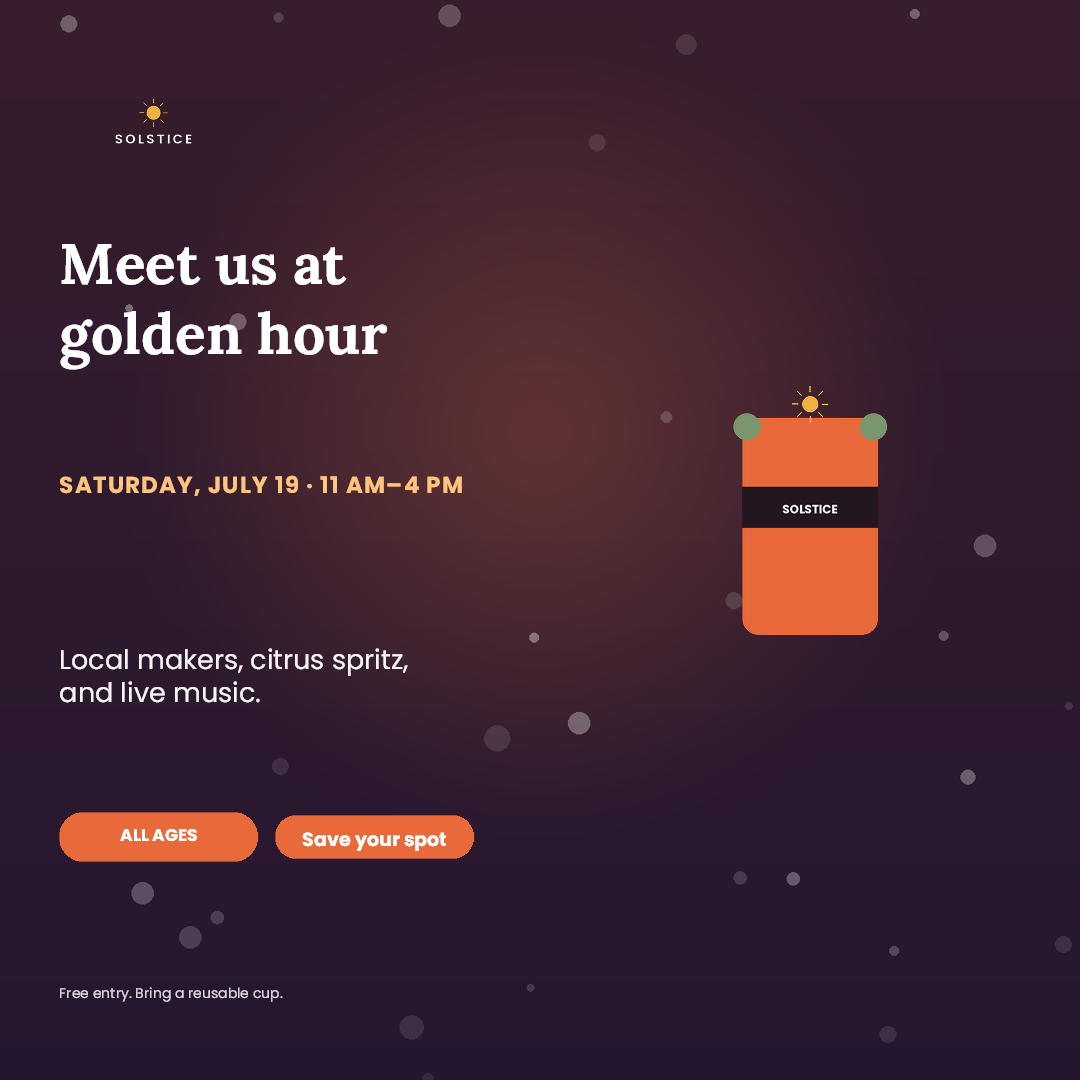
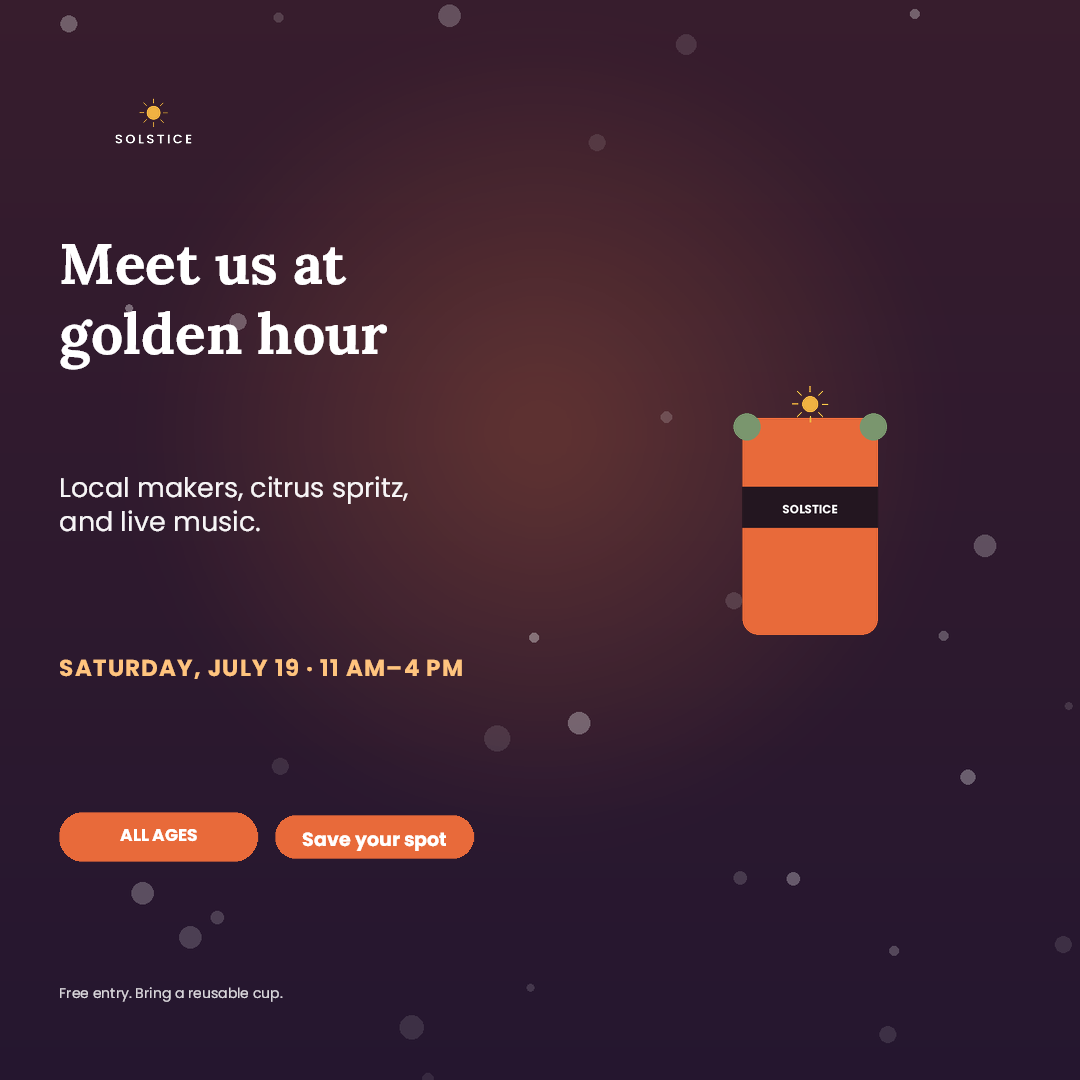
Keep event date hierarchy in mobile layouts

Changed region(s): [[0.0611, 0.5806, 0.4278, 0.6722], [0.0611, 0.4278, 0.4278, 0.4889]]

diff --git a/engine/chameleon/planner.py b/engine/chameleon/planner.py
@@ -228,7 +228,7 @@ def _wide_banner(dna: DesignDNA, output: dict[str, Any], by_id: dict[str, dict[s
     logos = roles("logo")
     heroes = sorted(roles("hero_image", "supporting_image"), key=lambda fact: -fact.importance)
     headlines = sorted(roles("headline"), key=lambda fact: -float(fact.element.get("font_size", 1)))
-    narrative = sorted(roles("subheadline", "body_copy"), key=lambda fact: (fact.center[1], fact.center[0]))
+    narrative = sorted(roles("subheadline", "event_metadata", "body_copy"), key=lambda fact: (fact.center[1], fact.center[0]))
     legal = roles("legal")
     cta_groups = _group_ids(dna, "cta")
     badge_groups = _group_ids(dna, "badge")
@@ -316,6 +316,7 @@ def _layout(dna: DesignDNA, family: str, variant: int = 0) -> dict[str, Any]:
     heroes = [f for f in facts if f.role in {"hero_image", "supporting_image"}]
     heads = [f for f in facts if f.role == "headline"]
     subs = [f for f in facts if f.role == "subheadline"]
+    metadata = [f for f in facts if f.role == "event_metadata"]
     bodies = [f for f in facts if f.role == "body_copy"]
     legals = [f for f in facts if f.role == "legal"]
     standalone_ctas = [f for f in facts if f.role == "cta_text" and f.group_id is None]
@@ -421,7 +422,7 @@ def _layout(dna: DesignDNA, family: str, variant: int = 0) -> dict[str, Any]:
             0.0 if compact_wide_copy else 0.14 if not compact else 0.07
         )
         ordered_heads = sorted(heads, key=lambda a: -float(a.element.get("font_size", 1)))
-        ordered_support = sorted(subs + bodies, key=lambda a: (a.center[1], a.center[0]))
+        ordered_support = sorted(subs + metadata + bodies, key=lambda a: (a.center[1], a.center[0]))
         many_narrative = compact and len(ordered_heads) + len(ordered_support) > 2
         if len(ordered_heads) + len(ordered_support) > 2:
             narrative = ordered_heads + ordered_support
@@ -510,8 +511,15 @@ def _layout(dna: DesignDNA, family: str, variant: int = 0) -> dict[str, Any]:
             h = ch * 0.20
             _apply_rect(dna, by_id, f.id, (copy_x, cursor, copy_w, h), assigned)
             cursor += h * 1.12
-        for f in subs + bodies:
-            h = ch * (0.15 if len(bodies) + len(subs) > 1 else 0.20)
+        for f in subs + metadata + bodies:
+            # Event date/time is supporting metadata, so reserve a compact
+            # band for it instead of giving it headline-sized vertical space.
+            if f.role == "event_metadata":
+                h = ch * 0.065
+            elif metadata:
+                h = ch * (0.12 if len(bodies) + len(subs) > 1 else 0.16)
+            else:
+                h = ch * (0.15 if len(bodies) + len(subs) > 1 else 0.20)
             _apply_rect(dna, by_id, f.id, (copy_x, cursor, copy_w, h), assigned)
             cursor += h * 1.06
         for f in standalone_ctas:
@@ -529,12 +537,31 @@ def _layout(dna: DesignDNA, family: str, variant: int = 0) -> dict[str, Any]:
         for i, f in enumerate(heads):
             head_h = min(ch * 0.14, ch * 0.16 / head_n)
             _apply_rect(dna, by_id, f.id, (mx, ch * (0.12 + i * (0.16 / head_n)), cw - 2 * mx, head_h), assigned)
+        metadata_end = 0.0
+        if metadata:
+            metadata_start = ch * (0.27 if heads else 0.12)
+            metadata_width = cw - 2 * mx
+            required_metadata = [
+                measure_text(f.element, metadata_width, ch, fonts_dir="brand_kit/fonts").required_height * 1.05
+                for f in metadata
+            ]
+            metadata_height = min(ch * 0.12, max(ch * 0.06, sum(required_metadata)))
+            total_required = max(1.0, sum(required_metadata))
+            cursor = metadata_start
+            for fact, needed_height in zip(metadata, required_metadata):
+                band_height = metadata_height * needed_height / total_required
+                _apply_rect(dna, by_id, fact.id, (mx, cursor, metadata_width, band_height * 0.9), assigned)
+                cursor += band_height
+            metadata_end = metadata_start + metadata_height
         if heroes:
+            hero_y = max(ch * (0.29 if heads else 0.22), metadata_end + ch * 0.01)
+            hero_band_height = ch * (0.16 if metadata else 0.18)
             for i, f in enumerate(sorted(heroes, key=lambda a: -a.importance)):
-                _apply_rect(dna, by_id, f.id, (cw * (0.30 + 0.12 * i), ch * 0.29, cw * (0.40 if i == 0 else 0.24), ch * (0.18 if i == 0 else 0.12)), assigned)
+                _apply_rect(dna, by_id, f.id, (cw * (0.30 + 0.12 * i), hero_y + i * ch * 0.025, cw * (0.40 if i == 0 else 0.24), hero_band_height if i == 0 else ch * 0.12), assigned)
         copy_facts = sorted(subs + bodies, key=lambda f: (float(f.element.get("y", 0)), f.center[0]))
         if copy_facts:
-            copy_start = ch * (0.49 if heroes else 0.31)
+            hero_bottom = hero_y + hero_band_height if heroes else 0.0
+            copy_start = max(ch * (0.49 if heroes else 0.31), hero_bottom + ch * 0.02) if heroes else ch * 0.31
             copy_width = cw - 2 * mx
             required = [
                 measure_text(f.element, copy_width, ch, fonts_dir="brand_kit/fonts").required_height * 1.3
@@ -549,7 +576,8 @@ def _layout(dna: DesignDNA, family: str, variant: int = 0) -> dict[str, Any]:
                 cursor += band_height
             badge_start = copy_start + total_copy_height + ch * 0.02
         else:
-            badge_start = ch * (0.56 if heroes else 0.34)
+            hero_bottom = hero_y + hero_band_height if heroes else 0.0
+            badge_start = max(ch * (0.56 if heroes else 0.34), hero_bottom + ch * 0.03) if heroes else ch * 0.34
         if badge_groups:
             gap_x, gap_y = max(2.0, cw * 0.018), ch * 0.008
             available_w = cw - 2 * mx
@@ -582,7 +610,7 @@ def _layout(dna: DesignDNA, family: str, variant: int = 0) -> dict[str, Any]:
             _apply_rect(dna, by_id, f.id, (mx, ch * (0.11 + i * 0.13), cw - 2 * mx, ch * 0.12), assigned)
         for i, f in enumerate(sorted(heroes, key=lambda a: -a.importance)):
             _apply_rect(dna, by_id, f.id, (cw * (0.40 + 0.12 * i), ch * 0.27, cw * 0.20, ch * 0.14), assigned)
-        copy_facts = sorted(subs + bodies + standalone_ctas, key=lambda f: (f.center[1], f.center[0]))
+        copy_facts = sorted(subs + metadata + bodies + standalone_ctas, key=lambda f: (f.center[1], f.center[0]))
         copy_start, copy_end = ch * 0.43, ch * (0.67 if legals else 0.70)
         copy_band = (copy_end - copy_start) / max(1, len(copy_facts))
         for i, fact in enumerate(copy_facts):
@@ -614,7 +642,7 @@ def _layout(dna: DesignDNA, family: str, variant: int = 0) -> dict[str, Any]:
             for i, f in enumerate(sorted(heroes, key=lambda a: -a.importance)):
                 _apply_rect(dna, by_id, f.id, (cw * (0.30 + 0.08 * i), area_y + i * ch * 0.04, cw * (0.40 if i == 0 else 0.25), ch * (0.28 if i == 0 else 0.20)), assigned)
         cursor = ch * (0.66 if heroes else 0.40)
-        for f in subs + bodies:
+        for f in subs + metadata + bodies:
             box_h = ch * min(0.15, 0.19 / max(1, len(subs) + len(bodies)))
             _apply_rect(dna, by_id, f.id, (mx, cursor, cw - 2 * mx, box_h), assigned)
             cursor += box_h * 1.06

diff --git a/tests/test_engine.py b/tests/test_engine.py
@@ -150,7 +150,16 @@ class EngineContractTests(unittest.TestCase):
     def test_bold_event_date_is_informational_copy_not_a_standalone_cta(self):
         fixture = json.loads((ROOT / "evidence" / "curated" / "market" / "source.json").read_text(encoding="utf-8"))
         dna = analyze_design(fixture["source"], {"width": 300, "height": 600})
-        self.assertEqual(dna.by_id["event_eyebrow"].role, "subheadline")
+        self.assertEqual(dna.by_id["event_eyebrow"].role, "event_metadata")
+
+    def test_mobile_event_date_keeps_source_scale_before_product(self):
+        fixture = json.loads((ROOT / "evidence" / "curated" / "market" / "source.json").read_text(encoding="utf-8"))
+        output = resize(fixture["source"], {"width": 300, "height": 600})
+        by_id = {element["id"]: element for element in output["elements"]}
+        self.assertGreaterEqual(by_id["event_eyebrow"]["font_size"], 20.0)
+        self.assertLessEqual(float(by_id["event_eyebrow"]["y"]) + float(by_id["event_eyebrow"]["height"]),
+                             float(by_id["hero_product"]["y"]))
+        self.assertFalse(any("new overlap" in issue for issue in get_last_diagnostics()["issues"]))
 
     def test_wide_source_recomposes_for_square_target(self):
         fixture = json.loads((ROOT / "evidence" / "curated" / "market" / "source.json").read_text(encoding="utf-8"))

diff --git a/engine/chameleon/semantics.py b/engine/chameleon/semantics.py
@@ -58,7 +58,7 @@ def infer_roles(elements: list[dict[str, Any]], canvas: dict[str, float]) -> dic
             elif rel_size >= 0.72:
                 role, confidence, importance = "headline", 0.78, 1.0
             elif date_time:
-                role, confidence, importance = "subheadline", 0.72, 0.62
+                role, confidence, importance = "event_metadata", 0.72, 0.62
             elif length <= 24 and element.get("font_weight") == "bold" and element.get("group_id"):
                 role, confidence, importance = "group_label", 0.68, 0.54
             elif length <= 42 and (element.get("font_weight") == "bold" or action_words & cta_verbs):

diff --git a/engine/chameleon/scoring.py b/engine/chameleon/scoring.py
@@ -183,7 +183,7 @@ def score_design(dna: DesignDNA, design: dict[str, Any], family: str = "") -> Sc
             issues.append(f"group {gid}: members are widely separated")
 
     text_facts = [fact for fact in dna.facts if fact.type == "text" and fact.id in by_id]
-    hierarchy_rank = {"headline": 4, "subheadline": 3, "body_copy": 2, "cta_text": 2,
+    hierarchy_rank = {"headline": 4, "subheadline": 3, "event_metadata": 3, "body_copy": 2, "cta_text": 2,
                       "badge_text": 1, "ribbon_text": 1, "legal": 0}
     for i, a in enumerate(text_facts):
         for b in text_facts[i + 1:]:

diff --git a/evidence/curated/market/visual-review.md b/evidence/curated/market/visual-review.md
@@ -7,12 +7,12 @@ on the right. The same 11 elements are retained in all outputs.
 |---|---|---|
 | 1080×1080 square | `split` | Uses a clear headline, date, copy, product, action sequence and fills the square. The product is dominant but the event details remain readable. |
 | 1080×1920 vertical story | `stack` | Preserves the order of headline, hero, event details, badge, CTA, and footer. The product looks small because of its source image's transparent bounds; gaps between bands remain. |
-| 300×600 mobile story | `stack` | The bold date is now informational copy and no longer overlaps the CTA. The headline and action remain prominent; date and CTA type sizes are close, so the hierarchy diagnostic remains. |
+| 300×600 mobile story | `stack` | The bold date is informational copy in a dedicated band between the headline and product. It remains near source scale, and the date, product, supporting copy, badge, CTA, and legal line do not overlap. |
 | 728×90 leaderboard | `banner` | The headline, date, and supporting copy are compressed into a busy strip. The grouped CTA remains visible, but the supporting copy is small. |
 | 300×250 medium rectangle | `banner` | Wider action groups improve badge and CTA readability while keeping all content present without new intersections. Legal copy remains readable and no longer triggers a hierarchy regression. |
 
 Every output preserves IDs/count, text, font families, and image references.
 The evaluator reports no off-canvas elements, text clipping, image-ratio
-failures, or new accidental collisions. The mobile date/CTA hierarchy warning
-is retained in `report.json`. These results are synthetic fixture evidence, not an
-Adobe score or a claim about hidden-set performance.
+failures, new accidental collisions, or hierarchy issues. These results are
+synthetic fixture evidence, not an Adobe score or a claim about hidden-set
+performance.

diff --git a/evidence/docker/validation.md b/evidence/docker/validation.md
@@ -1,6 +1,6 @@
 # Offline Docker validation
 
-Revalidated after the tall-format CTA/badge scale cap, renderer-measured portrait copy bands, date-metadata inference, source-fit adaptation scoring, and medium-rectangle action sizing on 2026-10-16 with Docker Desktop 4.77.0 and engine 29.5.3.
+Revalidated after event-metadata inference and dedicated portrait/split metadata bands on 2026-10-16 with Docker Desktop 4.77.0 and engine 29.5.3.
 
 Build for the challenge architecture:
 
@@ -21,9 +21,9 @@ docker run --rm --network none `
 
 Two consecutive runs completed with `OK`, and the repository validator reported zero issues for every output:
 
-- Level 1: 0.15 s both runs; PNG 107,497 bytes
-- Level 2: 0.17–0.18 s; PNG 69,531 bytes
-- Level 3: 0.26–0.32 s; PNG 43,235 bytes
+- Level 1: 0.16 s both runs; PNG 107,497 bytes
+- Level 2: 0.16–0.17 s; PNG 69,531 bytes
+- Level 3: 0.26 s both runs; PNG 43,235 bytes
 
 Two consecutive `--network none` runs produced byte-identical JSON and PNG
 outputs for all three official samples. PNG SHA-256 values: Level 1

diff --git a/evidence/benchmark/report.md b/evidence/benchmark/report.md
@@ -12,7 +12,7 @@ This score is an internal proxy, not Adobe's hidden evaluator.
 - Stress hierarchy regressions: 0 across 0 cases
 - No-new-collision rate (source-relative): 100.0%
 - Determinism rate: 100.0%
-- Stress runtime median / p95: 0.3142s / 1.8349s
+- Stress runtime median / p95: 0.2329s / 1.6725s
 
 - Mutation structural validity: 100.0%
 - Mutation off-canvas cases: 0
